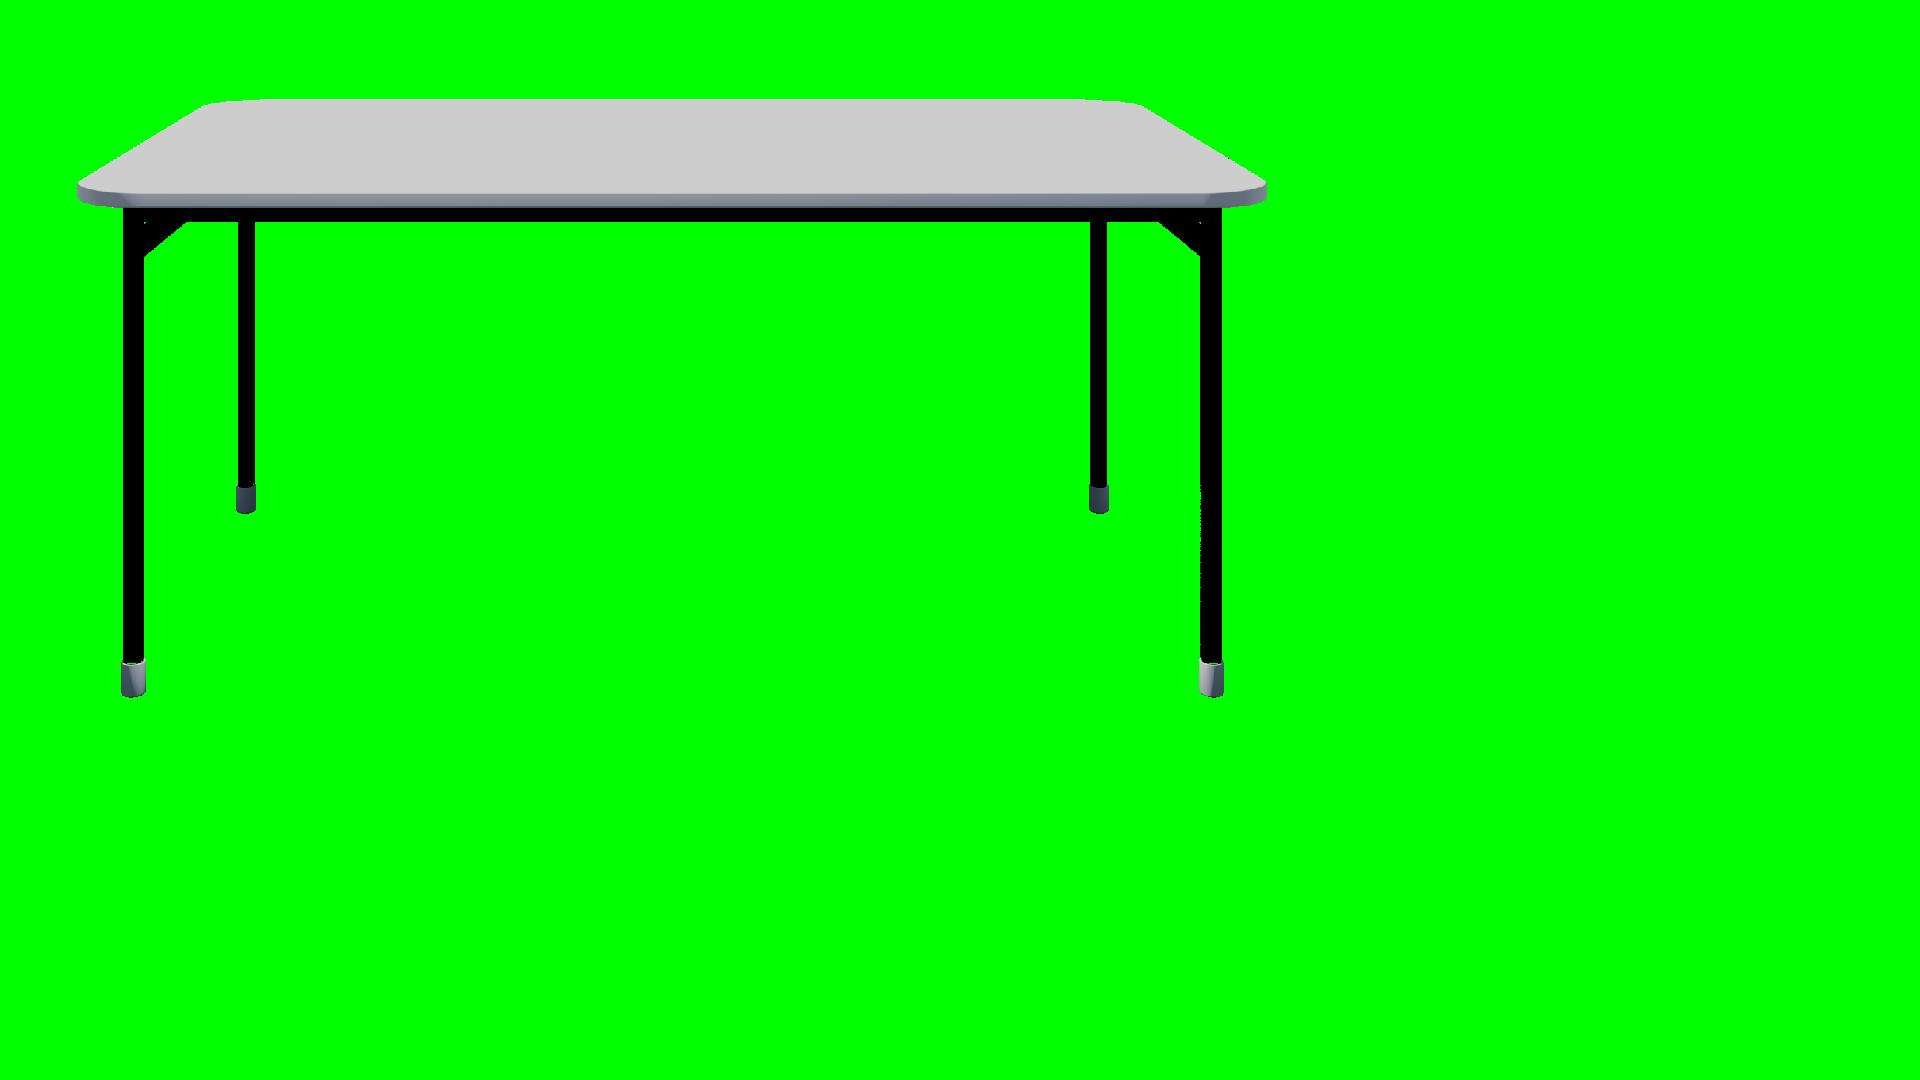
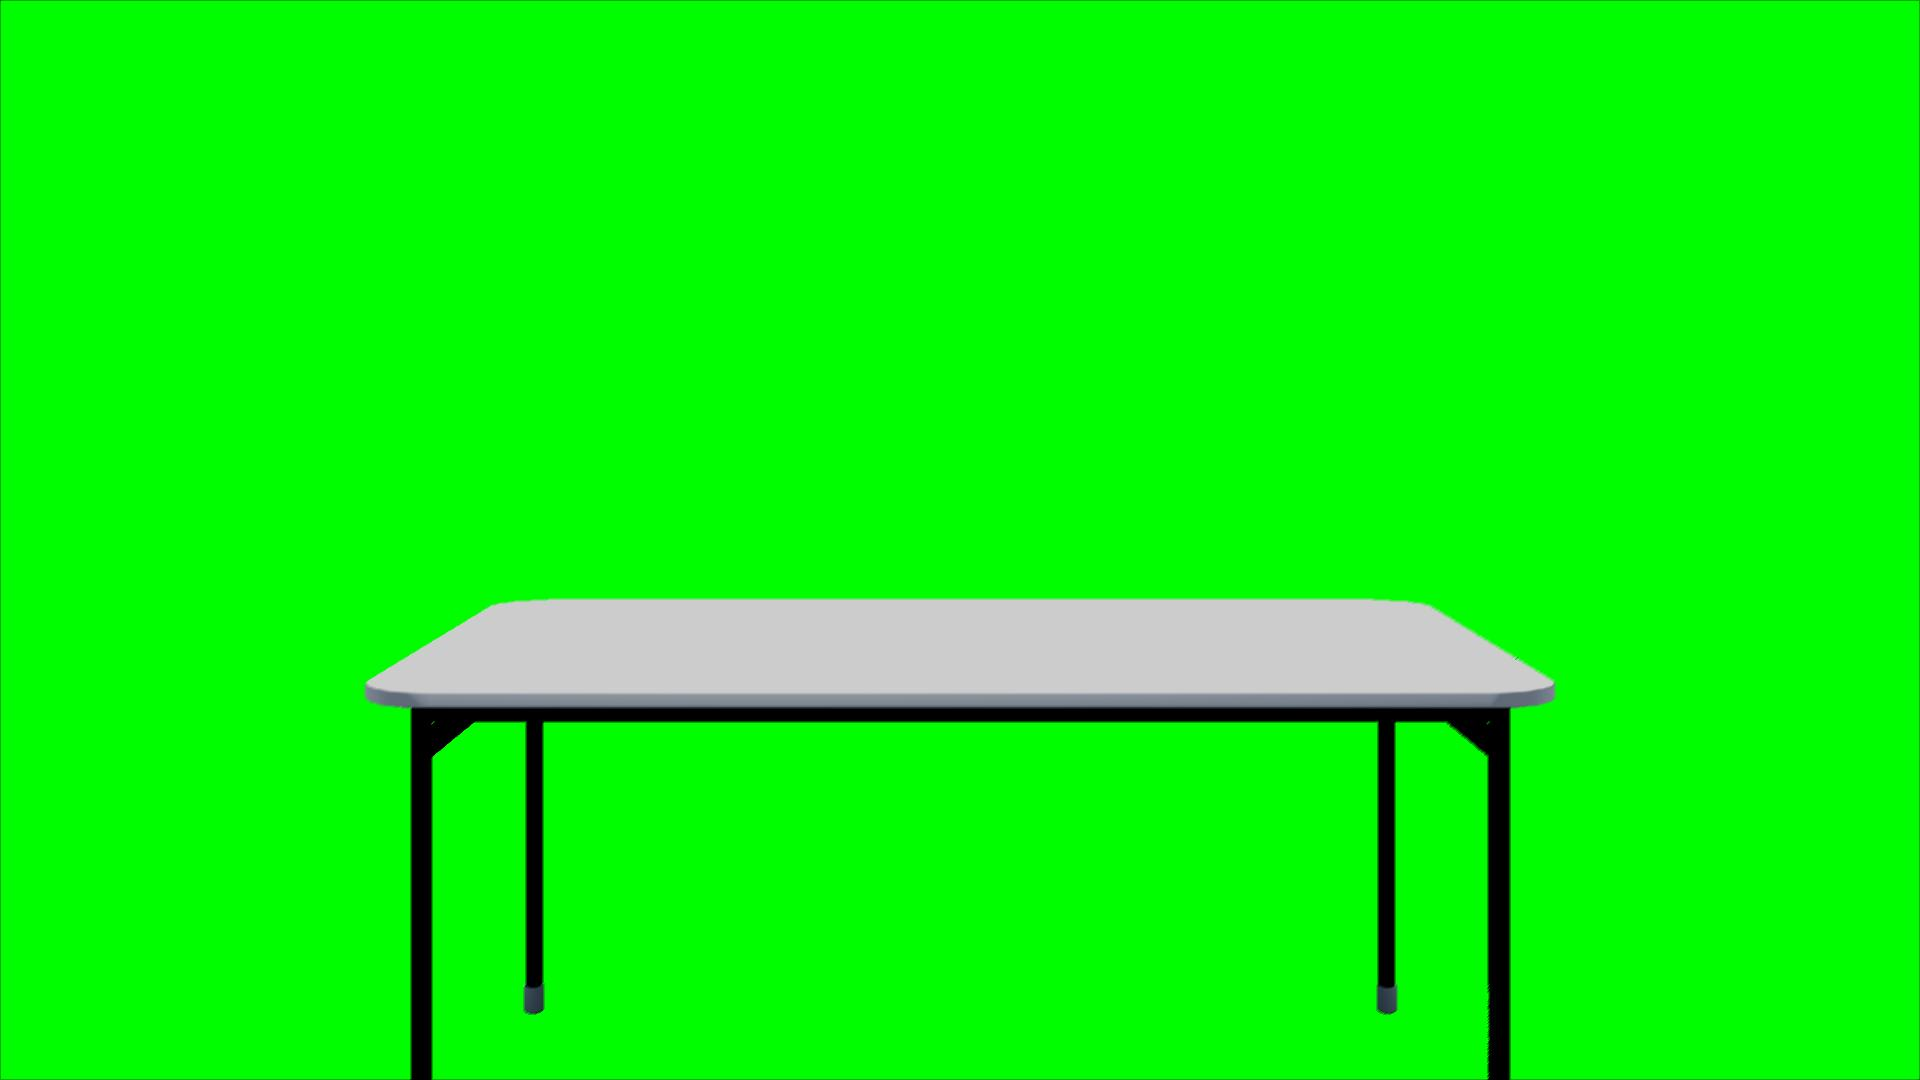
desk center position

Changed region(s): [[0.0312, 0.0917, 0.8125, 1.0]]

diff --git a/SpaceFiltering.java b/SpaceFiltering.java
@@ -7,7 +7,7 @@ public class SpaceFiltering {
 	static double filter[] = {
 		// 0.33333,0,0,0,0.33333,0,0,0,0.33333  // original value
 		// 0.11111,0.11111,0.11111,0.11111,0.11111,0.11111,0.11111,0.11111,0.11111  // 方向に対して重みのない平滑化
-		// 0,0,0.33333,0,0.33333,0,0.33333,0,0  // 方向に対して重みのある平滑化
+		0,0,0.33333,0,0.33333,0,0.33333,0,0  // 方向に対して重みのある平滑化
 		// -1,0,1,-2,0,2,-1,0,1  // ソーベルフィルタ
 		// 0,-1,0,-1,4,-1,0,-1,0  // ラプラシアンフィルタ
 		// 0,-1,0,-1,5,-1,-0,-1,0  // シャープ化フィルタ
@@ -21,7 +21,7 @@ public class SpaceFiltering {
 		// 0.625,0.125,0.625,0.125,0.25,0.125,0.625,0.125,0.625  // ガウシアンフィルタ（中心付近に重みをつけている）（講義資料より）
 		// -0.11111,-0.11111,-0.11111,-0.11111,1.88888,-0.11111,-0.11111,-0.11111,-0.11111  //アンシャープマスキング k = 1（参照：https://imagingsolution.net/imaging/unsharpmasking/）
 		// -1,-1,-1,-1,9,-1,-1,-1,-1  // アンシャープマスキング k = 9
-		-2,-2,-2,-2,17,-2,-2,-2,-2  // アンシャープマスキング k = 18
+		// -2,-2,-2,-2,17,-2,-2,-2,-2  // アンシャープマスキング k = 18
 	};
 
 	static MyImage execute(MyImage input) {

diff --git a/ClubUnreality.java b/ClubUnreality.java
@@ -18,10 +18,11 @@ public class ClubUnreality {
         //try {
 
           double desk_scale = 0.7;
+          int desk_plus_height = 500;
 
-          if (i < input1.height * desk_scale && j < input1.width * desk_scale) {
-            Color color0 = input0.getColor((int)(j / desk_scale), (int)(i / desk_scale));
-            Color color1 = input1.getColor((int)(j / desk_scale), (int)(i / desk_scale));
+          if (i > desk_plus_height && i < input1.height * desk_scale + desk_plus_height && j > (width_output - input1.width * desk_scale) / 2 && j < (width_output + input1.width * desk_scale) / 2) {
+            Color color0 = input0.getColor((int)((j - (width_output - input1.width * desk_scale) / 2) / desk_scale), (int)((i - desk_plus_height) / desk_scale));
+            Color color1 = input1.getColor((int)((j - (width_output - input1.width * desk_scale) / 2) / desk_scale), (int)((i - desk_plus_height) / desk_scale));
 
             // deskを暗く加工する。
             if (color0.getRed() > 0){

diff --git a/CvMain.java b/CvMain.java
@@ -8,13 +8,9 @@ public class CvMain {
 
 		String filename_output = "copy.jpg";
 
-		MyImage image_desk, image_desk_binalization, image_desk_dark, image_output;
+		MyImage image_desk, image_desk_binalization, image_ClubUnreality, image_output;
 	
 		image_desk = JpegFileReader.read(filename_desk);
-
-		//KMeans kmeans = new KMeans();
-		//kmeans.clustering(image_desk, 6);
-		//image_desk_chromakey = Chromakey.execute(image_desk, kmeans, 3);
 		image_desk_binalization = Binalization.execute(image_desk);
 
 		{
@@ -25,7 +21,8 @@ public class CvMain {
 			//image_output = Scale.execute(image1);
 			//image_output = Rotation.execute(image1);
 			//image_desk_dark = Dark.execute(image_desk);
-			image_output= ClubUnreality.execute(image_desk_binalization, image_desk);
+			image_ClubUnreality = ClubUnreality.execute(image_desk_binalization, image_desk);
+			image_output = SpaceFiltering.execute(image_ClubUnreality);
 			//image_output = ClubUnreality.execute(image_desk_binalization);
 		}
 
